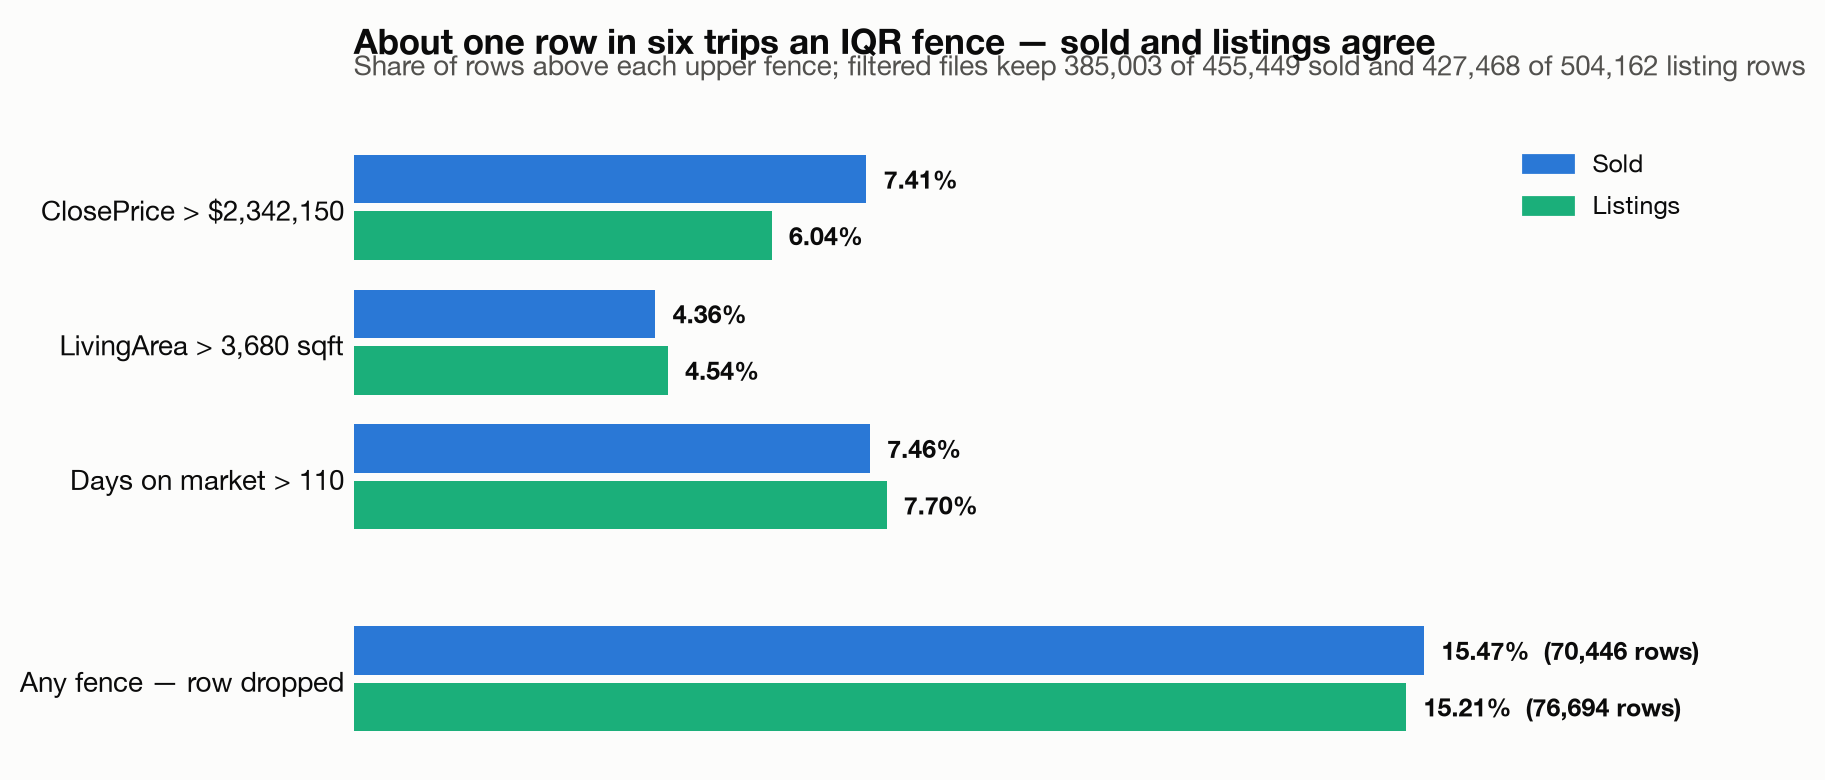
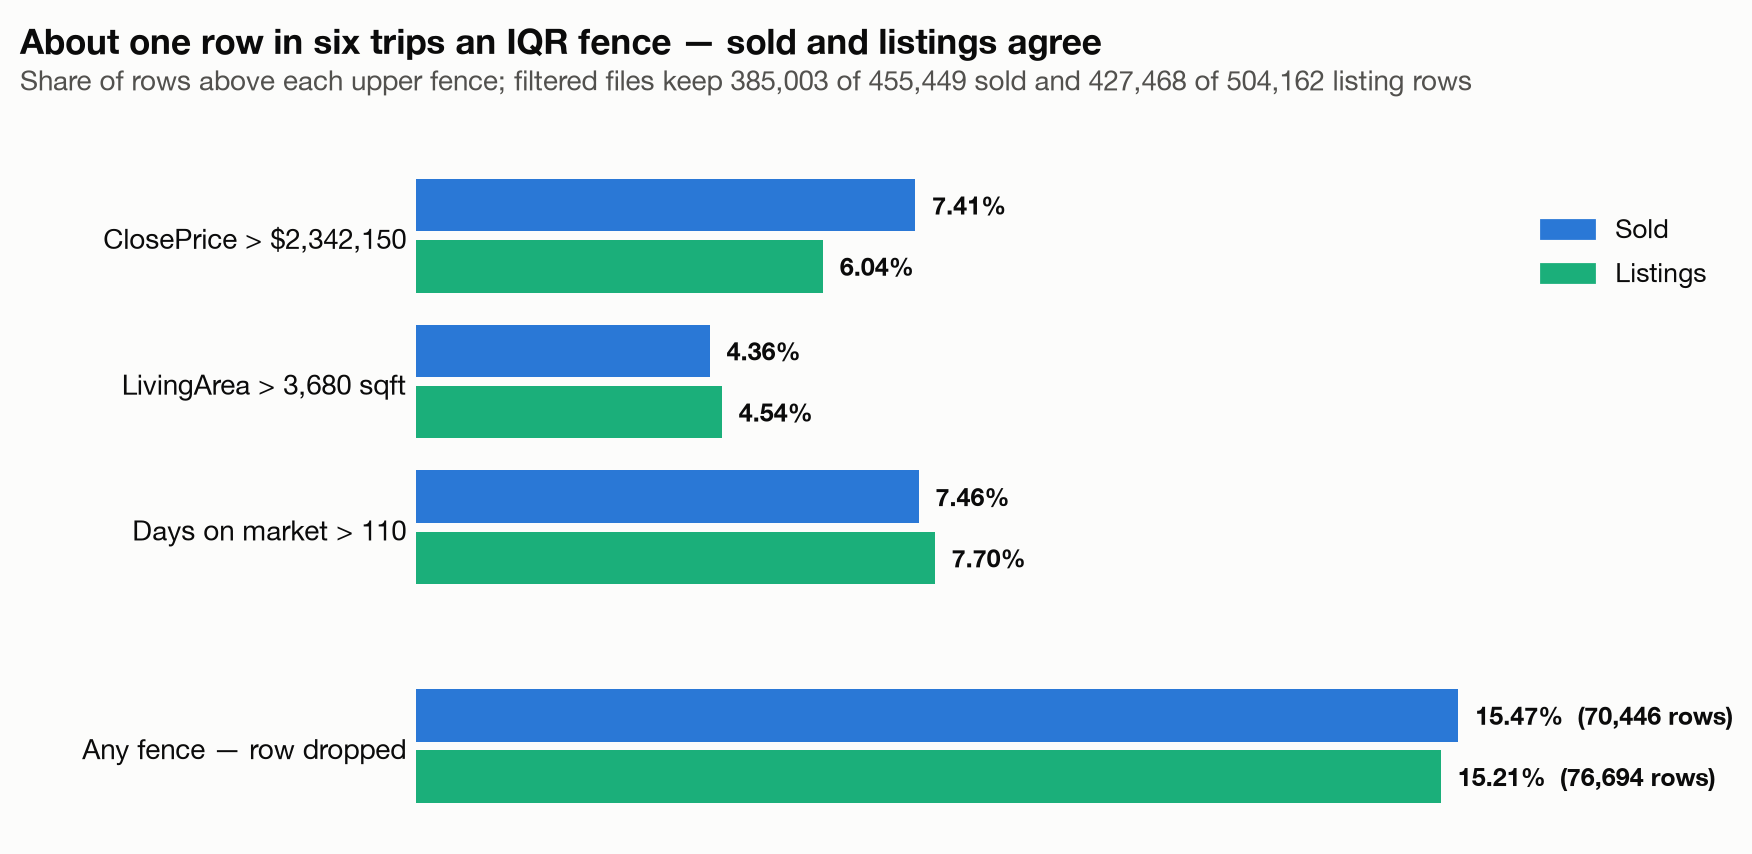
Week 7: figure legibility fixes + full handbook coverage
- Figures: titles/subtitles moved to dedicated figure-space headroom (no more
  crowding), legend clear of bars, taller canvas; README separates the two
  images with a connecting sentence.
- Handbook intro coverage: diagnostic-only IQR report for price_per_sqft
  (would flag 4.07%) and close_to_original_list_ratio (9.35%) -- reported, not
  flagged, so filtered files stay defined by the three named fields.
- Tiered approach stated explicitly in the printed output (business rules W4-5
  -> IQR flags -> separate filtered file); spec checklist expanded; observed
  output regenerated from the fresh run.

diff --git a/week7/iqr_outlier_filtering.py b/week7/iqr_outlier_filtering.py
@@ -16,6 +16,22 @@ SPEC CHECKLIST (handbook wording -> artifact):
    median values before and after filtering"   -> printed comparison table below
                                                   (+ README prose)
   "use percentiles alongside IQR"              -> percentile block printed per field
+  intro also names "price per square footage,
+   close to list ratio" as distortion-prone    -> DIAGNOSTIC-ONLY block for
+                                                  price_per_sqft + close-to-list
+                                                  ratio (percentiles + would-be
+                                                  fence counts; NOT flagged, so the
+                                                  filtered files stay defined by the
+                                                  three fields the deliverable names
+                                                  and comparable across the team)
+  "tiered approach: flag extreme values,
+   apply business rules, separate filtered
+   dataset"                                    -> tier 1 = Weeks 4-5 business rules
+                                                  (ClosePrice<=0 etc. already
+                                                  removed); tier 2 = these IQR
+                                                  flags; tier 3 = separate filtered
+                                                  files (originals untouched);
+                                                  stated in the printed output
 
 Inputs: the Week 6 enriched datasets (sold 455,449 x 62 / listings 504,162 x 60).
 DistrictName / district_match_status and all engineered metrics carry through to
@@ -110,6 +126,23 @@ def iqr_flags(df, label):
     return df
 
 
+def intro_field_diagnostics(df, label):
+    """The handbook INTRO also names PPSF and close-to-list ratio as distortion-
+    prone. Diagnostic only: percentiles + how many rows WOULD trip a 1.5*IQR
+    fence. No flags -- the deliverable's named fields define the filtered files."""
+    print(f"\n=== INTRO-FIELD DIAGNOSTICS ({label}) -- reported, not flagged ===")
+    for f in ("price_per_sqft", "close_to_original_list_ratio"):
+        s = pd.to_numeric(df[f], errors="coerce").dropna()
+        q1, q3 = s.quantile(0.25), s.quantile(0.75)
+        lo, hi = q1 - 1.5 * (q3 - q1), q3 + 1.5 * (q3 - q1)
+        n_out = int(((s < lo) | (s > hi)).sum())
+        print(f"  {f}: median={s.median():,.2f}  p95={s.quantile(.95):,.2f}  "
+              f"p99={s.quantile(.99):,.2f}  would-be fences=[{lo:,.2f}, {hi:,.2f}]"
+              f"  would flag {n_out:,} rows ({n_out/len(df)*100:.2f}%)")
+    print("  note: most of these rows are already caught by the three named "
+          "fences (a PPSF outlier is usually a price or size outlier).")
+
+
 def written_comparison(before, after, label):
     """The handbook's written comparison: size + medians (means as context)."""
     print(f"\n=== WRITTEN COMPARISON ({label}): before vs after IQR filtering ===")
@@ -176,7 +209,12 @@ def main():
         print(f"loaded Week 6 enriched: {len(df):,} rows x {n_cols_in} cols")
         preview(df, f"{prefix} input as loaded")
 
+        print("TIERED APPROACH (per handbook): tier 1 = business rules, applied in "
+              "Weeks 4-5 (ClosePrice<=0 etc.; 209 sold / 304 listing rows removed "
+              "there); tier 2 = IQR flags below; tier 3 = separate filtered file "
+              "(the flagged original keeps every row).")
         df = iqr_flags(df, prefix)
+        intro_field_diagnostics(df, prefix)
         flag_cols = list(FLAG_OF.values()) + ["any_iqr_outlier_flag"]
         preview(df[df["any_iqr_outlier_flag"] == 1], f"{prefix} flagged examples",
                 flag_cols)
@@ -233,6 +271,8 @@ if __name__ == "__main__":
 #   capstone metrics.
 # District + engineered columns carried through all 4 outputs (asserted+printed).
 # Sanity band 12-20%: PASSED at 15.47% / 15.21%.
+# INTRO-FIELD DIAGNOSTICS (reported, not flagged): PPSF would flag 4.07% |
+#   close-to-list ratio would flag 9.35% -- largely overlapping the named fences.
 # =============================================================================
 
 # =============================================================================
@@ -249,6 +289,7 @@ if __name__ == "__main__":
 #   1890500.0      3194.0             0 2024-01     Los Angeles
 #   2100000.0      3736.0             0 2024-01 San Luis Obispo
 #   2340000.0      2442.0             0 2024-01     Santa Clara
+# TIERED APPROACH (per handbook): tier 1 = business rules, applied in Weeks 4-5 (ClosePrice<=0 etc.; 209 sold / 304 listing rows removed there); tier 2 = IQR flags below; tier 3 = separate filtered file (the flagged original keeps every row).
 # 
 # === IQR FENCES & PERCENTILES (Sold) ===
 # 
@@ -268,6 +309,11 @@ if __name__ == "__main__":
 #   flagged: below=0  above=33,960  total=33,960 (7.46% of rows)
 # 
 # any_iqr_outlier_flag: 70,446 rows (15.47%)
+# 
+# === INTRO-FIELD DIAGNOSTICS (Sold) -- reported, not flagged ===
+#   price_per_sqft: median=532.08  p95=1,190.67  p99=1,851.95  would-be fences=[-173.16, 1,261.79]  would flag 18,524 rows (4.07%)
+#   close_to_original_list_ratio: median=0.99  p95=1.11  p99=1.28  would-be fences=[0.86, 1.12]  would flag 42,565 rows (9.35%)
+#   note: most of these rows are already caught by the three named fences (a PPSF outlier is usually a price or size outlier).
 # 
 # -- preview: Sold flagged examples (first 5 rows) --
 #  ClosePrice  LivingArea  DaysOnMarket    YrMo  CountyOrParish  closeprice_iqr_outlier_flag  livingarea_iqr_outlier_flag  daysonmarket_iqr_outlier_flag  any_iqr_outlier_flag
@@ -329,6 +375,7 @@ if __name__ == "__main__":
 #    160000.0      1008.0            10 2026-04           Lake
 #   2000000.0      2573.0            98 2026-04    Los Angeles
 #   3200000.0      1381.0             0 2025-05      San Diego
+# TIERED APPROACH (per handbook): tier 1 = business rules, applied in Weeks 4-5 (ClosePrice<=0 etc.; 209 sold / 304 listing rows removed there); tier 2 = IQR flags below; tier 3 = separate filtered file (the flagged original keeps every row).
 # 
 # === IQR FENCES & PERCENTILES (Listing) ===
 # 
@@ -348,6 +395,11 @@ if __name__ == "__main__":
 #   flagged: below=0  above=38,811  total=38,811 (7.70% of rows)
 # 
 # any_iqr_outlier_flag: 76,694 rows (15.21%)
+# 
+# === INTRO-FIELD DIAGNOSTICS (Listing) -- reported, not flagged ===
+#   price_per_sqft: median=537.16  p95=1,197.06  p99=1,854.80  would-be fences=[-168.40, 1,267.42]  would flag 17,158 rows (3.40%)
+#   close_to_original_list_ratio: median=1.00  p95=1.11  p99=1.28  would-be fences=[0.86, 1.12]  would flag 39,632 rows (7.86%)
+#   note: most of these rows are already caught by the three named fences (a PPSF outlier is usually a price or size outlier).
 # 
 # -- preview: Listing flagged examples (first 5 rows) --
 #  ClosePrice  LivingArea  DaysOnMarket    YrMo CountyOrParish  closeprice_iqr_outlier_flag  livingarea_iqr_outlier_flag  daysonmarket_iqr_outlier_flag  any_iqr_outlier_flag

diff --git a/week7/make_figures.py b/week7/make_figures.py
@@ -55,12 +55,14 @@ def fig_mean_vs_median():
     for s in ax.spines.values():
         s.set_visible(False)
     ax.tick_params(length=0)
-    ax.set_title("The average was the outlier problem — the median barely moves",
-                 fontsize=12.5, fontweight="bold", color=INK, pad=40, loc="left")
-    ax.text(0, 1.13, "Sold ClosePrice before vs after IQR filtering — a handful of "
-                     "\\$10M+ sales inflated the mean by ~\\$235K; listings behave the same",
-            transform=ax.transAxes, fontsize=10, color=INK2)
-    fig.tight_layout()
+    fig.suptitle("The average was the outlier problem — the median barely moves",
+                 fontsize=12.5, fontweight="bold", color=INK, x=0.02, y=0.985,
+                 ha="left")
+    fig.text(0.02, 0.905, "Sold ClosePrice before vs after IQR filtering — a handful "
+                          "of \\$10M+ sales inflated the mean by ~\\$235K; "
+                          "listings behave the same",
+             fontsize=10, color=INK2)
+    fig.subplots_adjust(top=0.82, bottom=0.12, left=0.06, right=0.97)
     out = os.path.join(FIG_DIR, "iqr_mean_vs_median.png")
     fig.savefig(out, bbox_inches="tight", facecolor=SURFACE)
     print("saved", out)
@@ -74,7 +76,7 @@ def fig_flag_rates():
     # extra half-unit gap before the "Any" row
     ys = [0, 1, 2, 3.5]
 
-    fig, ax = plt.subplots(figsize=(9, 4.0), dpi=200)
+    fig, ax = plt.subplots(figsize=(9, 4.4), dpi=200)
     for i, y in enumerate(ys):
         ax.barh(y - 0.21, sold[i], color=BLUE, height=0.36, zorder=3)
         ax.barh(y + 0.21, lst[i], color=AQUA, height=0.36, zorder=3)
@@ -93,14 +95,15 @@ def fig_flag_rates():
     ax.tick_params(length=0)
     handles = [plt.Rectangle((0, 0), 1, 1, color=BLUE),
                plt.Rectangle((0, 0), 1, 1, color=AQUA)]
-    ax.legend(handles, ["Sold", "Listings"], frameon=False, fontsize=9,
-              loc="upper right")
-    ax.set_title("About one row in six trips an IQR fence — sold and listings agree",
-                 fontsize=12.5, fontweight="bold", color=INK, pad=26, loc="left")
-    ax.text(0, 1.08, "Share of rows above each upper fence; filtered files keep "
-                     "385,003 of 455,449 sold and 427,468 of 504,162 listing rows",
-            transform=ax.transAxes, fontsize=10, color=INK2)
-    fig.tight_layout()
+    ax.legend(handles, ["Sold", "Listings"], frameon=False, fontsize=9.5,
+              loc="center right", bbox_to_anchor=(1.0, 0.85))
+    fig.suptitle("About one row in six trips an IQR fence — sold and listings agree",
+                 fontsize=12.5, fontweight="bold", color=INK, x=0.02, y=0.985,
+                 ha="left")
+    fig.text(0.02, 0.905, "Share of rows above each upper fence; filtered files keep "
+                          "385,003 of 455,449 sold and 427,468 of 504,162 listing rows",
+             fontsize=10, color=INK2)
+    fig.subplots_adjust(top=0.84, bottom=0.06, left=0.24, right=0.97)
     out = os.path.join(FIG_DIR, "iqr_flag_rates.png")
     fig.savefig(out, bbox_inches="tight", facecolor=SURFACE)
     print("saved", out)

diff --git a/README.md b/README.md
@@ -313,6 +313,8 @@ Output: `Week 6 _ Deliverable _ Sold Residential Enriched.csv` (455,449 × 62) a
 
 ![Mean vs median close price before and after IQR filtering — the mean collapses 21% while the median moves 4%](week7/figures/iqr_mean_vs_median.png)
 
+And what each fence caught, side by side for the two datasets:
+
 ![Share of rows above each IQR fence, sold vs listings — about one row in six trips a fence](week7/figures/iqr_flag_rates.png)
 
 **What we learned**
@@ -321,6 +323,8 @@ Output: `Week 6 _ Deliverable _ Sold Residential Enriched.csv` (455,449 × 62) a
 - **The filter doesn't skew geography.** County flag rates are nearly flat (Riverside 15.4%, LA 16.4%, Orange 16.9%) — so trend charts built on the filtered file represent every county fairly.
 - **But it does bite the investor tier via one fence:** in sub-$600K stock only the *days-on-market* fence fires (10.8%), and the slow-sale tail it removes is 40% sub-$600K. That's exactly the "stale listing" inventory investors buy — which is why **every investor/capstone metric stays on the flagged (pre-IQR) file**, a rule now printed by the script itself.
 - Listings with no sale price (16% — still on the market) can't be price outliers; they pass through and stay.
+- **The handbook's intro also names price-per-sqft and the close-to-list ratio as distortion-prone**, so the script reports a diagnostic for both (would-flag 4.1% and 9.4% respectively) without flagging them — the deliverable's three named fields define the filtered files, and most of those rows are already caught by the price/size fences anyway.
+- **The tiered approach, explicitly:** tier 1 = business rules (done in Weeks 4–5: `ClosePrice <= 0` etc.), tier 2 = these IQR flags, tier 3 = the separate filtered file — raw records always preserved.
 - One honest limitation, noted not fixed: fences are computed statewide. A $2.5M home is an outlier in Riverside but ordinary in parts of San Mateo — per-county fences would be the more rigorous upgrade, deferred to keep results comparable across the team.
 
 Output: four CSVs — `Week 7 _ Deliverable _ {Sold, Listing} Residential IQR {Flagged, Filtered}.csv`. The script ends with the full observed output embedded as comments.
